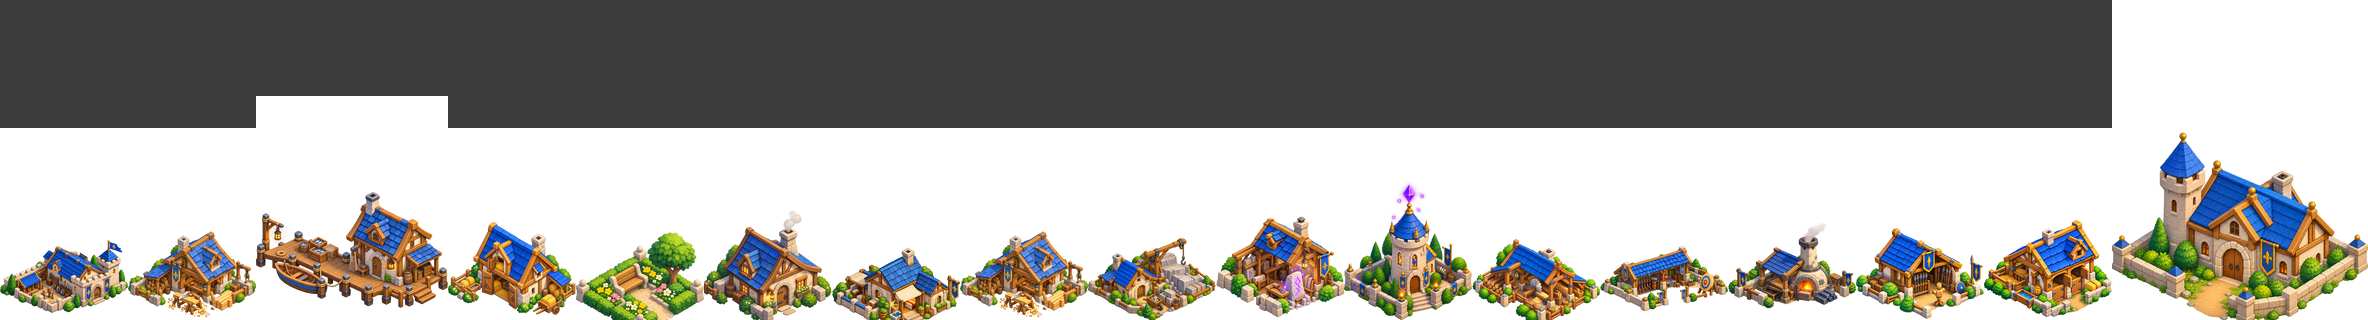
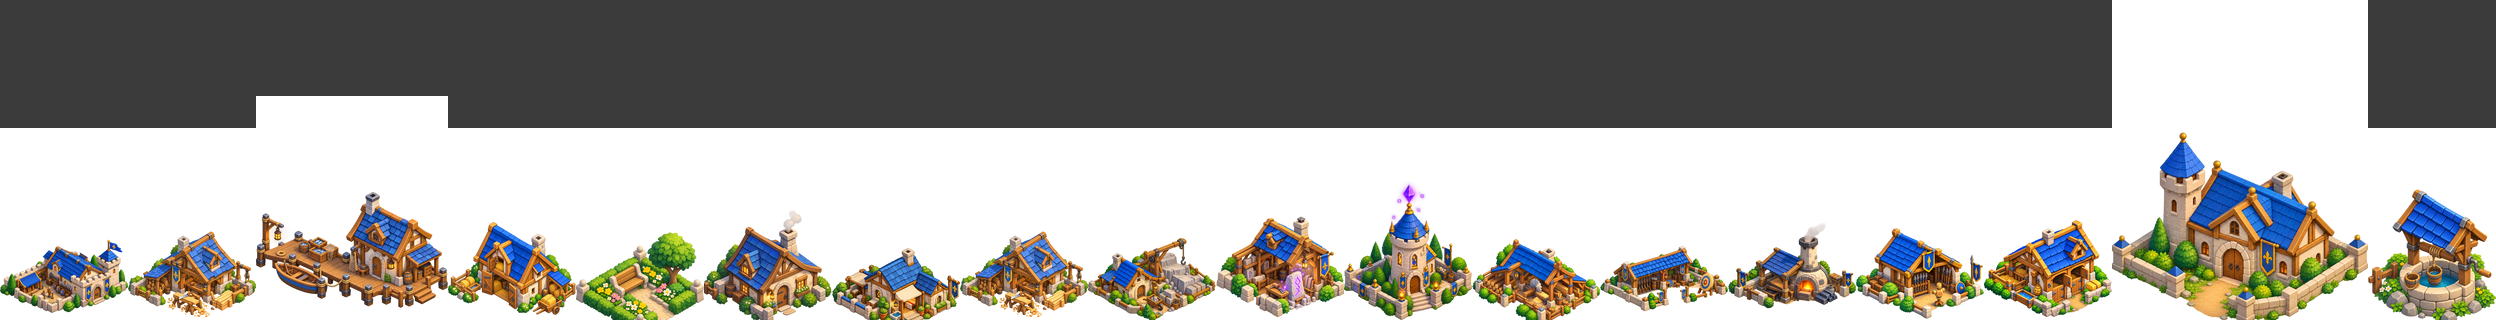
art(city): Well

diff --git a/Docs/art/city/scene.html b/Docs/art/city/scene.html
@@ -46,7 +46,7 @@ code{font-family:ui-monospace,monospace;font-size:.92em}
 </style></head><body class="">
 <header>
   <h1>Kingdom — the isometric city set</h1>
-  <span class="meta">2:1 · tile 128×64 · <strong id="n">17/22</strong> sprites</span>
+  <span class="meta">2:1 · tile 128×64 · <strong id="n">18/22</strong> sprites</span>
   <span class="ctl">
     <button id="m1" aria-pressed="true">Showcase</button>
     <button id="m2" aria-pressed="false">Village</button>
@@ -142,11 +142,11 @@ code{font-family:ui-monospace,monospace;font-size:.92em}
       <figcaption>Statue<em>1×1 · decoration</em></figcaption>
     </figure><figure class="card" style="width:150px">
       <div class="slot" style="width:128px;height:192px">
-        <svg class="grid" width="128" height="192"><path class="t on" d="M64 128l64 32l-64 32l-64 -32z"/></svg><div class="miss" style="left:0px;top:128px;width:128px;height:64px"><span>soon</span></div></div>
+        <svg class="grid" width="128" height="192"><path class="t on" d="M64 128l64 32l-64 32l-64 -32z"/></svg><img src="well_l1.png" alt="Well" width="128" height="192"></div>
       <figcaption>Well<em>1×1 · decoration</em></figcaption>
     </figure></div>
   <div id="v2" hidden><div class="stage" style="width:1688px;height:824px">
-<svg class="grid" width="1688" height="824"><path class="t" d="M844 300l64 32l-64 32l-64 -32z"/><path class="t" d="M780 332l64 32l-64 32l-64 -32z"/><path class="t" d="M716 364l64 32l-64 32l-64 -32z"/><path class="t on" d="M652 396l64 32l-64 32l-64 -32z"/><path class="t" d="M908 332l64 32l-64 32l-64 -32z"/><path class="t on" d="M844 364l64 32l-64 32l-64 -32z"/><path class="t on" d="M780 396l64 32l-64 32l-64 -32z"/><path class="t on" d="M716 428l64 32l-64 32l-64 -32z"/><path class="t" d="M972 364l64 32l-64 32l-64 -32z"/><path class="t on" d="M908 396l64 32l-64 32l-64 -32z"/><path class="t on" d="M844 428l64 32l-64 32l-64 -32z"/><path class="t on" d="M780 460l64 32l-64 32l-64 -32z"/><path class="t" d="M1036 396l64 32l-64 32l-64 -32z"/><path class="t on" d="M972 428l64 32l-64 32l-64 -32z"/><path class="t on" d="M908 460l64 32l-64 32l-64 -32z"/><path class="t" d="M844 492l64 32l-64 32l-64 -32z"/><path class="t" d="M908 204l64 32l-64 32l-64 -32z"/><path class="t" d="M844 236l64 32l-64 32l-64 -32z"/><path class="t on" d="M780 268l64 32l-64 32l-64 -32z"/><path class="t" d="M972 236l64 32l-64 32l-64 -32z"/><path class="t on" d="M908 268l64 32l-64 32l-64 -32z"/><path class="t" d="M1036 268l64 32l-64 32l-64 -32z"/><path class="t on" d="M972 300l64 32l-64 32l-64 -32z"/><path class="t" d="M1100 300l64 32l-64 32l-64 -32z"/><path class="t on" d="M1036 332l64 32l-64 32l-64 -32z"/><path class="t" d="M1164 332l64 32l-64 32l-64 -32z"/><path class="t" d="M1100 364l64 32l-64 32l-64 -32z"/><path class="t" d="M780 204l64 32l-64 32l-64 -32z"/><path class="t" d="M716 236l64 32l-64 32l-64 -32z"/><path class="t" d="M652 268l64 32l-64 32l-64 -32z"/><path class="t on" d="M716 300l64 32l-64 32l-64 -32z"/><path class="t" d="M588 300l64 32l-64 32l-64 -32z"/><path class="t" d="M652 332l64 32l-64 32l-64 -32z"/><path class="t" d="M1164 396l64 32l-64 32l-64 -32z"/><path class="t on" d="M1100 428l64 32l-64 32l-64 -32z"/><path class="t on" d="M1036 460l64 32l-64 32l-64 -32z"/><path class="t" d="M1228 428l64 32l-64 32l-64 -32z"/><path class="t" d="M1164 460l64 32l-64 32l-64 -32z"/><path class="t" d="M1100 492l64 32l-64 32l-64 -32z"/><path class="t on" d="M972 492l64 32l-64 32l-64 -32z"/><path class="t" d="M908 524l64 32l-64 32l-64 -32z"/><path class="t" d="M1036 524l64 32l-64 32l-64 -32z"/><path class="t" d="M972 556l64 32l-64 32l-64 -32z"/><path class="t on" d="M524 332l64 32l-64 32l-64 -32z"/><path class="t" d="M460 364l64 32l-64 32l-64 -32z"/><path class="t" d="M396 396l64 32l-64 32l-64 -32z"/><path class="t" d="M588 364l64 32l-64 32l-64 -32z"/><path class="t on" d="M524 396l64 32l-64 32l-64 -32z"/><path class="t" d="M460 428l64 32l-64 32l-64 -32z"/><path class="t" d="M588 428l64 32l-64 32l-64 -32z"/><path class="t" d="M524 460l64 32l-64 32l-64 -32z"/><path class="t" d="M716 492l64 32l-64 32l-64 -32z"/><path class="t on" d="M652 524l64 32l-64 32l-64 -32z"/><path class="t on" d="M780 524l64 32l-64 32l-64 -32z"/><path class="t" d="M716 556l64 32l-64 32l-64 -32z"/><path class="t" d="M844 556l64 32l-64 32l-64 -32z"/><path class="t" d="M780 588l64 32l-64 32l-64 -32z"/><path class="t on" d="M460 492l64 32l-64 32l-64 -32z"/><path class="t" d="M652 460l64 32l-64 32l-64 -32z"/><path class="t on" d="M588 492l64 32l-64 32l-64 -32z"/><path class="t" d="M524 524l64 32l-64 32l-64 -32z"/><path class="t" d="M588 556l64 32l-64 32l-64 -32z"/><path class="t on" d="M652 588l64 32l-64 32l-64 -32z"/><path class="t" d="M524 588l64 32l-64 32l-64 -32z"/><path class="t" d="M588 620l64 32l-64 32l-64 -32z"/><path class="t on" d="M716 620l64 32l-64 32l-64 -32z"/><path class="t" d="M652 652l64 32l-64 32l-64 -32z"/><path class="t" d="M844 620l64 32l-64 32l-64 -32z"/><path class="t" d="M780 652l64 32l-64 32l-64 -32z"/><path class="t" d="M716 684l64 32l-64 32l-64 -32z"/><path class="t" d="M396 460l64 32l-64 32l-64 -32z"/><path class="t" d="M332 492l64 32l-64 32l-64 -32z"/><path class="t" d="M396 524l64 32l-64 32l-64 -32z"/><path class="t" d="M460 556l64 32l-64 32l-64 -32z"/><path class="t" d="M1292 460l64 32l-64 32l-64 -32z"/><path class="t on" d="M1228 492l64 32l-64 32l-64 -32z"/><path class="t" d="M1164 524l64 32l-64 32l-64 -32z"/><path class="t" d="M1356 492l64 32l-64 32l-64 -32z"/><path class="t" d="M1292 524l64 32l-64 32l-64 -32z"/><path class="t" d="M1228 556l64 32l-64 32l-64 -32z"/><path class="t on" d="M1100 556l64 32l-64 32l-64 -32z"/><path class="t" d="M1036 588l64 32l-64 32l-64 -32z"/><path class="t" d="M1164 588l64 32l-64 32l-64 -32z"/><path class="t" d="M1100 620l64 32l-64 32l-64 -32z"/><path class="t" d="M908 588l64 32l-64 32l-64 -32z"/><path class="t on" d="M972 620l64 32l-64 32l-64 -32z"/><path class="t" d="M908 652l64 32l-64 32l-64 -32z"/><path class="t" d="M1036 652l64 32l-64 32l-64 -32z"/><path class="t" d="M972 684l64 32l-64 32l-64 -32z"/><path class="t" d="M1292 332l64 32l-64 32l-64 -32z"/><path class="t" d="M1228 364l64 32l-64 32l-64 -32z"/><path class="t" d="M1356 364l64 32l-64 32l-64 -32z"/><path class="t on" d="M1292 396l64 32l-64 32l-64 -32z"/><path class="t" d="M1420 396l64 32l-64 32l-64 -32z"/><path class="t" d="M1356 428l64 32l-64 32l-64 -32z"/><path class="t" d="M460 236l64 32l-64 32l-64 -32z"/><path class="t" d="M396 268l64 32l-64 32l-64 -32z"/><path class="t" d="M332 300l64 32l-64 32l-64 -32z"/><path class="t" d="M524 268l64 32l-64 32l-64 -32z"/><path class="t on" d="M460 300l64 32l-64 32l-64 -32z"/><path class="t" d="M396 332l64 32l-64 32l-64 -32z"/><path class="t" d="M268 332l64 32l-64 32l-64 -32z"/><path class="t" d="M204 364l64 32l-64 32l-64 -32z"/><path class="t" d="M140 396l64 32l-64 32l-64 -32z"/><path class="t" d="M76 428l64 32l-64 32l-64 -32z"/><path class="t" d="M332 364l64 32l-64 32l-64 -32z"/><path class="t on" d="M268 396l64 32l-64 32l-64 -32z"/><path class="t on" d="M204 428l64 32l-64 32l-64 -32z"/><path class="t" d="M140 460l64 32l-64 32l-64 -32z"/><path class="t on" d="M332 428l64 32l-64 32l-64 -32z"/><path class="t on" d="M268 460l64 32l-64 32l-64 -32z"/><path class="t" d="M204 492l64 32l-64 32l-64 -32z"/><path class="t" d="M268 524l64 32l-64 32l-64 -32z"/><path class="t" d="M1484 428l64 32l-64 32l-64 -32z"/><path class="t on" d="M1420 460l64 32l-64 32l-64 -32z"/><path class="t" d="M1548 460l64 32l-64 32l-64 -32z"/><path class="t on" d="M1484 492l64 32l-64 32l-64 -32z"/><path class="t" d="M1420 524l64 32l-64 32l-64 -32z"/><path class="t" d="M1612 492l64 32l-64 32l-64 -32z"/><path class="t" d="M1548 524l64 32l-64 32l-64 -32z"/><path class="t" d="M1484 556l64 32l-64 32l-64 -32z"/></svg><figure style="left:844px;top:140px;width:128px"><img src="housing_l1.png" alt="Housing" width="128" height="192"></figure><figure style="left:716px;top:140px;width:128px"><img src="housing_l1.png" alt="Housing" width="128" height="192"></figure><figure style="left:908px;top:172px;width:128px"><img src="housing_l1.png" alt="Housing" width="128" height="192"></figure><figure style="left:652px;top:172px;width:128px"><img src="housing_l1.png" alt="Housing" width="128" height="192"></figure><figure style="left:396px;top:172px;width:192px"><img src="docks_l1.png" alt="Docks" width="192" height="224"></figure><figure style="left:972px;top:204px;width:128px"><img src="housing_l1.png" alt="Housing" width="128" height="192"></figure><figure style="left:716px;top:172px;width:256px"><img src="townhall_l1.png" alt="Townhall" width="256" height="320"></figure><figure style="left:460px;top:268px;width:128px"><img src="quarry_l1.png" alt="Quarry" width="128" height="192"></figure><figure style="left:1228px;top:268px;width:128px"><img src="rune_carver_l1.png" alt="Rune Carver" width="128" height="192"></figure><div class="miss" style="left:140px;top:396px;width:256px;height:128px"><span>Shrine</span></div><figure style="left:588px;top:268px;width:128px"><img src="garden_l1.png" alt="Garden" width="128" height="192"></figure><figure style="left:1036px;top:300px;width:128px"><img src="farm_l1.png" alt="Farm" width="128" height="192"></figure><div class="miss" style="left:844px;top:428px;width:256px;height:128px"><span>Plaza</span></div><div class="miss" style="left:652px;top:428px;width:128px;height:64px"><span>Statue</span></div><div class="miss" style="left:1356px;top:460px;width:192px;height:96px"><span>Orchard</span></div><div class="miss" style="left:716px;top:460px;width:128px;height:64px"><span>Well</span></div><figure style="left:908px;top:364px;width:128px"><img src="sawmill_l1.png" alt="Sawmill" width="128" height="192"></figure><figure style="left:524px;top:364px;width:128px"><img src="barracks_l1.png" alt="Barracks" width="128" height="192"></figure><figure style="left:396px;top:364px;width:128px"><img src="infirmary_l1.png" alt="Infirmary" width="128" height="192"></figure><figure style="left:1164px;top:364px;width:128px"><img src="carpenter_l1.png" alt="Carpenter" width="128" height="192"></figure><figure style="left:716px;top:396px;width:128px"><img src="sanctum_l1.png" alt="Sanctum" width="128" height="192"></figure><figure style="left:588px;top:396px;width:128px"><img src="spear_hall_l1.png" alt="Spear Hall" width="128" height="192"></figure><figure style="left:1036px;top:428px;width:128px"><img src="masons_yard_l1.png" alt="Mason's Yard" width="128" height="192"></figure><figure style="left:588px;top:460px;width:128px"><img src="shooting_grounds_l1.png" alt="Shooting Grounds" width="128" height="192"></figure><figure style="left:652px;top:492px;width:128px"><img src="stables_l1.png" alt="Stables" width="128" height="192"></figure><figure style="left:908px;top:492px;width:128px"><img src="smelter_l1.png" alt="Smelter" width="128" height="192"></figure></div></div>
+<svg class="grid" width="1688" height="824"><path class="t" d="M844 300l64 32l-64 32l-64 -32z"/><path class="t" d="M780 332l64 32l-64 32l-64 -32z"/><path class="t" d="M716 364l64 32l-64 32l-64 -32z"/><path class="t on" d="M652 396l64 32l-64 32l-64 -32z"/><path class="t" d="M908 332l64 32l-64 32l-64 -32z"/><path class="t on" d="M844 364l64 32l-64 32l-64 -32z"/><path class="t on" d="M780 396l64 32l-64 32l-64 -32z"/><path class="t on" d="M716 428l64 32l-64 32l-64 -32z"/><path class="t" d="M972 364l64 32l-64 32l-64 -32z"/><path class="t on" d="M908 396l64 32l-64 32l-64 -32z"/><path class="t on" d="M844 428l64 32l-64 32l-64 -32z"/><path class="t on" d="M780 460l64 32l-64 32l-64 -32z"/><path class="t" d="M1036 396l64 32l-64 32l-64 -32z"/><path class="t on" d="M972 428l64 32l-64 32l-64 -32z"/><path class="t on" d="M908 460l64 32l-64 32l-64 -32z"/><path class="t" d="M844 492l64 32l-64 32l-64 -32z"/><path class="t" d="M908 204l64 32l-64 32l-64 -32z"/><path class="t" d="M844 236l64 32l-64 32l-64 -32z"/><path class="t on" d="M780 268l64 32l-64 32l-64 -32z"/><path class="t" d="M972 236l64 32l-64 32l-64 -32z"/><path class="t on" d="M908 268l64 32l-64 32l-64 -32z"/><path class="t" d="M1036 268l64 32l-64 32l-64 -32z"/><path class="t on" d="M972 300l64 32l-64 32l-64 -32z"/><path class="t" d="M1100 300l64 32l-64 32l-64 -32z"/><path class="t on" d="M1036 332l64 32l-64 32l-64 -32z"/><path class="t" d="M1164 332l64 32l-64 32l-64 -32z"/><path class="t" d="M1100 364l64 32l-64 32l-64 -32z"/><path class="t" d="M780 204l64 32l-64 32l-64 -32z"/><path class="t" d="M716 236l64 32l-64 32l-64 -32z"/><path class="t" d="M652 268l64 32l-64 32l-64 -32z"/><path class="t on" d="M716 300l64 32l-64 32l-64 -32z"/><path class="t" d="M588 300l64 32l-64 32l-64 -32z"/><path class="t" d="M652 332l64 32l-64 32l-64 -32z"/><path class="t" d="M1164 396l64 32l-64 32l-64 -32z"/><path class="t on" d="M1100 428l64 32l-64 32l-64 -32z"/><path class="t on" d="M1036 460l64 32l-64 32l-64 -32z"/><path class="t" d="M1228 428l64 32l-64 32l-64 -32z"/><path class="t" d="M1164 460l64 32l-64 32l-64 -32z"/><path class="t" d="M1100 492l64 32l-64 32l-64 -32z"/><path class="t on" d="M972 492l64 32l-64 32l-64 -32z"/><path class="t" d="M908 524l64 32l-64 32l-64 -32z"/><path class="t" d="M1036 524l64 32l-64 32l-64 -32z"/><path class="t" d="M972 556l64 32l-64 32l-64 -32z"/><path class="t on" d="M524 332l64 32l-64 32l-64 -32z"/><path class="t" d="M460 364l64 32l-64 32l-64 -32z"/><path class="t" d="M396 396l64 32l-64 32l-64 -32z"/><path class="t" d="M588 364l64 32l-64 32l-64 -32z"/><path class="t on" d="M524 396l64 32l-64 32l-64 -32z"/><path class="t" d="M460 428l64 32l-64 32l-64 -32z"/><path class="t" d="M588 428l64 32l-64 32l-64 -32z"/><path class="t" d="M524 460l64 32l-64 32l-64 -32z"/><path class="t" d="M716 492l64 32l-64 32l-64 -32z"/><path class="t on" d="M652 524l64 32l-64 32l-64 -32z"/><path class="t on" d="M780 524l64 32l-64 32l-64 -32z"/><path class="t" d="M716 556l64 32l-64 32l-64 -32z"/><path class="t" d="M844 556l64 32l-64 32l-64 -32z"/><path class="t" d="M780 588l64 32l-64 32l-64 -32z"/><path class="t on" d="M460 492l64 32l-64 32l-64 -32z"/><path class="t" d="M652 460l64 32l-64 32l-64 -32z"/><path class="t on" d="M588 492l64 32l-64 32l-64 -32z"/><path class="t" d="M524 524l64 32l-64 32l-64 -32z"/><path class="t" d="M588 556l64 32l-64 32l-64 -32z"/><path class="t on" d="M652 588l64 32l-64 32l-64 -32z"/><path class="t" d="M524 588l64 32l-64 32l-64 -32z"/><path class="t" d="M588 620l64 32l-64 32l-64 -32z"/><path class="t on" d="M716 620l64 32l-64 32l-64 -32z"/><path class="t" d="M652 652l64 32l-64 32l-64 -32z"/><path class="t" d="M844 620l64 32l-64 32l-64 -32z"/><path class="t" d="M780 652l64 32l-64 32l-64 -32z"/><path class="t" d="M716 684l64 32l-64 32l-64 -32z"/><path class="t" d="M396 460l64 32l-64 32l-64 -32z"/><path class="t" d="M332 492l64 32l-64 32l-64 -32z"/><path class="t" d="M396 524l64 32l-64 32l-64 -32z"/><path class="t" d="M460 556l64 32l-64 32l-64 -32z"/><path class="t" d="M1292 460l64 32l-64 32l-64 -32z"/><path class="t on" d="M1228 492l64 32l-64 32l-64 -32z"/><path class="t" d="M1164 524l64 32l-64 32l-64 -32z"/><path class="t" d="M1356 492l64 32l-64 32l-64 -32z"/><path class="t" d="M1292 524l64 32l-64 32l-64 -32z"/><path class="t" d="M1228 556l64 32l-64 32l-64 -32z"/><path class="t on" d="M1100 556l64 32l-64 32l-64 -32z"/><path class="t" d="M1036 588l64 32l-64 32l-64 -32z"/><path class="t" d="M1164 588l64 32l-64 32l-64 -32z"/><path class="t" d="M1100 620l64 32l-64 32l-64 -32z"/><path class="t" d="M908 588l64 32l-64 32l-64 -32z"/><path class="t on" d="M972 620l64 32l-64 32l-64 -32z"/><path class="t" d="M908 652l64 32l-64 32l-64 -32z"/><path class="t" d="M1036 652l64 32l-64 32l-64 -32z"/><path class="t" d="M972 684l64 32l-64 32l-64 -32z"/><path class="t" d="M1292 332l64 32l-64 32l-64 -32z"/><path class="t" d="M1228 364l64 32l-64 32l-64 -32z"/><path class="t" d="M1356 364l64 32l-64 32l-64 -32z"/><path class="t on" d="M1292 396l64 32l-64 32l-64 -32z"/><path class="t" d="M1420 396l64 32l-64 32l-64 -32z"/><path class="t" d="M1356 428l64 32l-64 32l-64 -32z"/><path class="t" d="M460 236l64 32l-64 32l-64 -32z"/><path class="t" d="M396 268l64 32l-64 32l-64 -32z"/><path class="t" d="M332 300l64 32l-64 32l-64 -32z"/><path class="t" d="M524 268l64 32l-64 32l-64 -32z"/><path class="t on" d="M460 300l64 32l-64 32l-64 -32z"/><path class="t" d="M396 332l64 32l-64 32l-64 -32z"/><path class="t" d="M268 332l64 32l-64 32l-64 -32z"/><path class="t" d="M204 364l64 32l-64 32l-64 -32z"/><path class="t" d="M140 396l64 32l-64 32l-64 -32z"/><path class="t" d="M76 428l64 32l-64 32l-64 -32z"/><path class="t" d="M332 364l64 32l-64 32l-64 -32z"/><path class="t on" d="M268 396l64 32l-64 32l-64 -32z"/><path class="t on" d="M204 428l64 32l-64 32l-64 -32z"/><path class="t" d="M140 460l64 32l-64 32l-64 -32z"/><path class="t on" d="M332 428l64 32l-64 32l-64 -32z"/><path class="t on" d="M268 460l64 32l-64 32l-64 -32z"/><path class="t" d="M204 492l64 32l-64 32l-64 -32z"/><path class="t" d="M268 524l64 32l-64 32l-64 -32z"/><path class="t" d="M1484 428l64 32l-64 32l-64 -32z"/><path class="t on" d="M1420 460l64 32l-64 32l-64 -32z"/><path class="t" d="M1548 460l64 32l-64 32l-64 -32z"/><path class="t on" d="M1484 492l64 32l-64 32l-64 -32z"/><path class="t" d="M1420 524l64 32l-64 32l-64 -32z"/><path class="t" d="M1612 492l64 32l-64 32l-64 -32z"/><path class="t" d="M1548 524l64 32l-64 32l-64 -32z"/><path class="t" d="M1484 556l64 32l-64 32l-64 -32z"/></svg><figure style="left:844px;top:140px;width:128px"><img src="housing_l1.png" alt="Housing" width="128" height="192"></figure><figure style="left:716px;top:140px;width:128px"><img src="housing_l1.png" alt="Housing" width="128" height="192"></figure><figure style="left:908px;top:172px;width:128px"><img src="housing_l1.png" alt="Housing" width="128" height="192"></figure><figure style="left:652px;top:172px;width:128px"><img src="housing_l1.png" alt="Housing" width="128" height="192"></figure><figure style="left:396px;top:172px;width:192px"><img src="docks_l1.png" alt="Docks" width="192" height="224"></figure><figure style="left:972px;top:204px;width:128px"><img src="housing_l1.png" alt="Housing" width="128" height="192"></figure><figure style="left:716px;top:172px;width:256px"><img src="townhall_l1.png" alt="Townhall" width="256" height="320"></figure><figure style="left:460px;top:268px;width:128px"><img src="quarry_l1.png" alt="Quarry" width="128" height="192"></figure><figure style="left:1228px;top:268px;width:128px"><img src="rune_carver_l1.png" alt="Rune Carver" width="128" height="192"></figure><div class="miss" style="left:140px;top:396px;width:256px;height:128px"><span>Shrine</span></div><figure style="left:588px;top:268px;width:128px"><img src="garden_l1.png" alt="Garden" width="128" height="192"></figure><figure style="left:1036px;top:300px;width:128px"><img src="farm_l1.png" alt="Farm" width="128" height="192"></figure><div class="miss" style="left:844px;top:428px;width:256px;height:128px"><span>Plaza</span></div><div class="miss" style="left:652px;top:428px;width:128px;height:64px"><span>Statue</span></div><div class="miss" style="left:1356px;top:460px;width:192px;height:96px"><span>Orchard</span></div><figure style="left:716px;top:332px;width:128px"><img src="well_l1.png" alt="Well" width="128" height="192"></figure><figure style="left:908px;top:364px;width:128px"><img src="sawmill_l1.png" alt="Sawmill" width="128" height="192"></figure><figure style="left:524px;top:364px;width:128px"><img src="barracks_l1.png" alt="Barracks" width="128" height="192"></figure><figure style="left:396px;top:364px;width:128px"><img src="infirmary_l1.png" alt="Infirmary" width="128" height="192"></figure><figure style="left:1164px;top:364px;width:128px"><img src="carpenter_l1.png" alt="Carpenter" width="128" height="192"></figure><figure style="left:716px;top:396px;width:128px"><img src="sanctum_l1.png" alt="Sanctum" width="128" height="192"></figure><figure style="left:588px;top:396px;width:128px"><img src="spear_hall_l1.png" alt="Spear Hall" width="128" height="192"></figure><figure style="left:1036px;top:428px;width:128px"><img src="masons_yard_l1.png" alt="Mason's Yard" width="128" height="192"></figure><figure style="left:588px;top:460px;width:128px"><img src="shooting_grounds_l1.png" alt="Shooting Grounds" width="128" height="192"></figure><figure style="left:652px;top:492px;width:128px"><img src="stables_l1.png" alt="Stables" width="128" height="192"></figure><figure style="left:908px;top:492px;width:128px"><img src="smelter_l1.png" alt="Smelter" width="128" height="192"></figure></div></div>
 </main>
 <footer>
   Every sprite is placed with the renderer's own formula —
